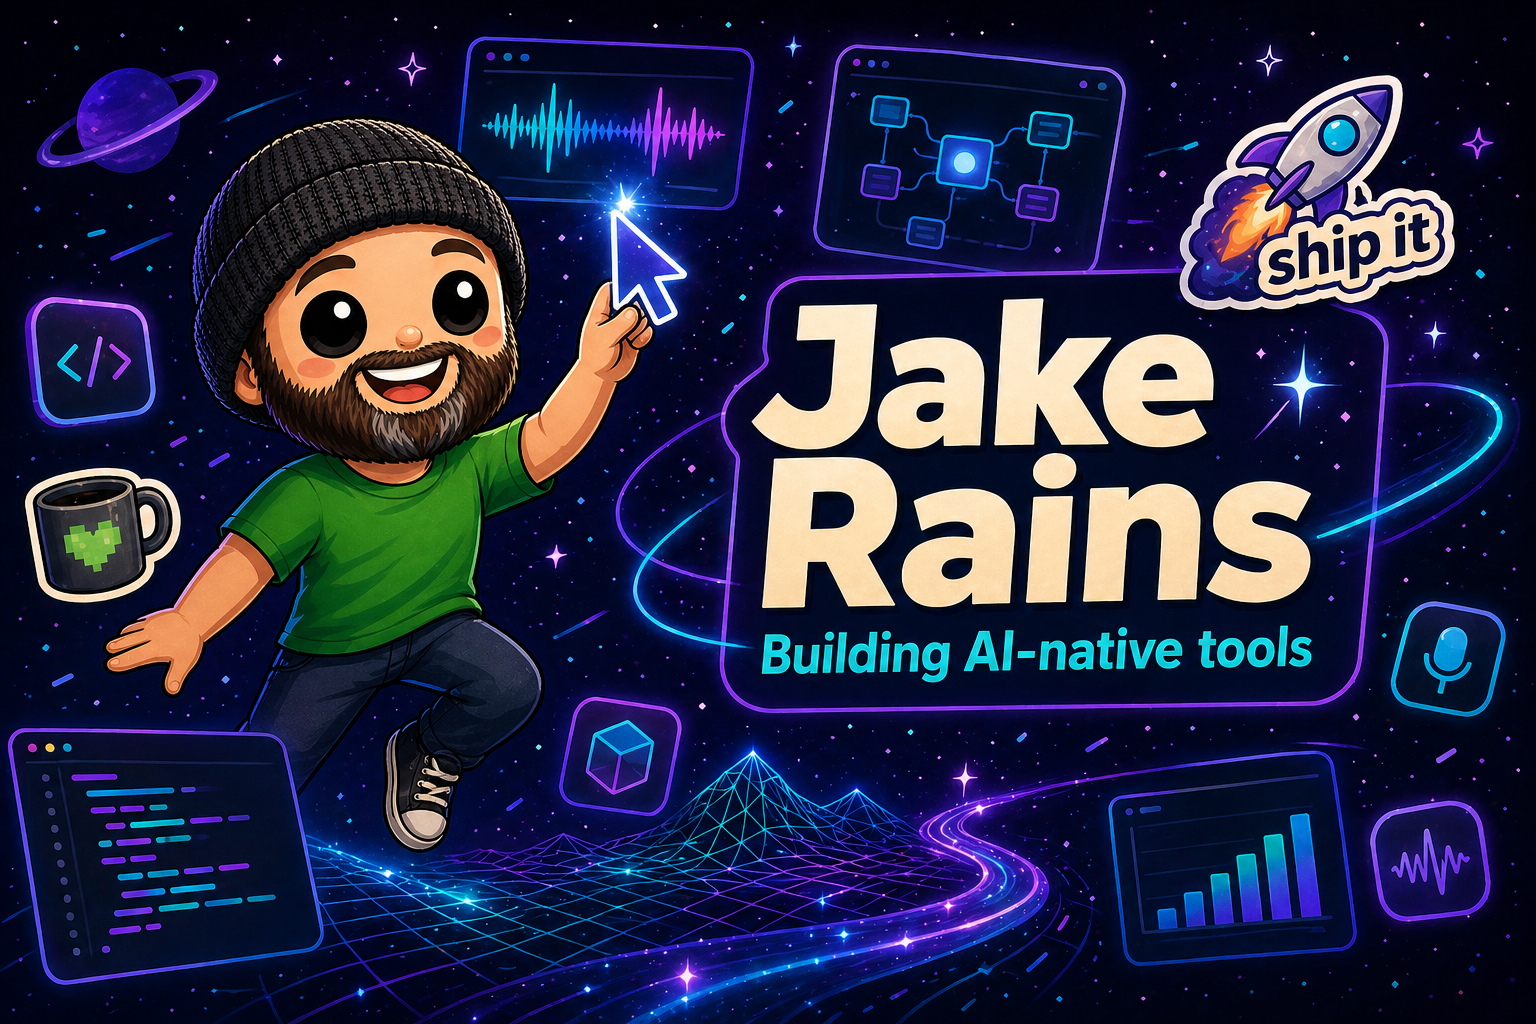
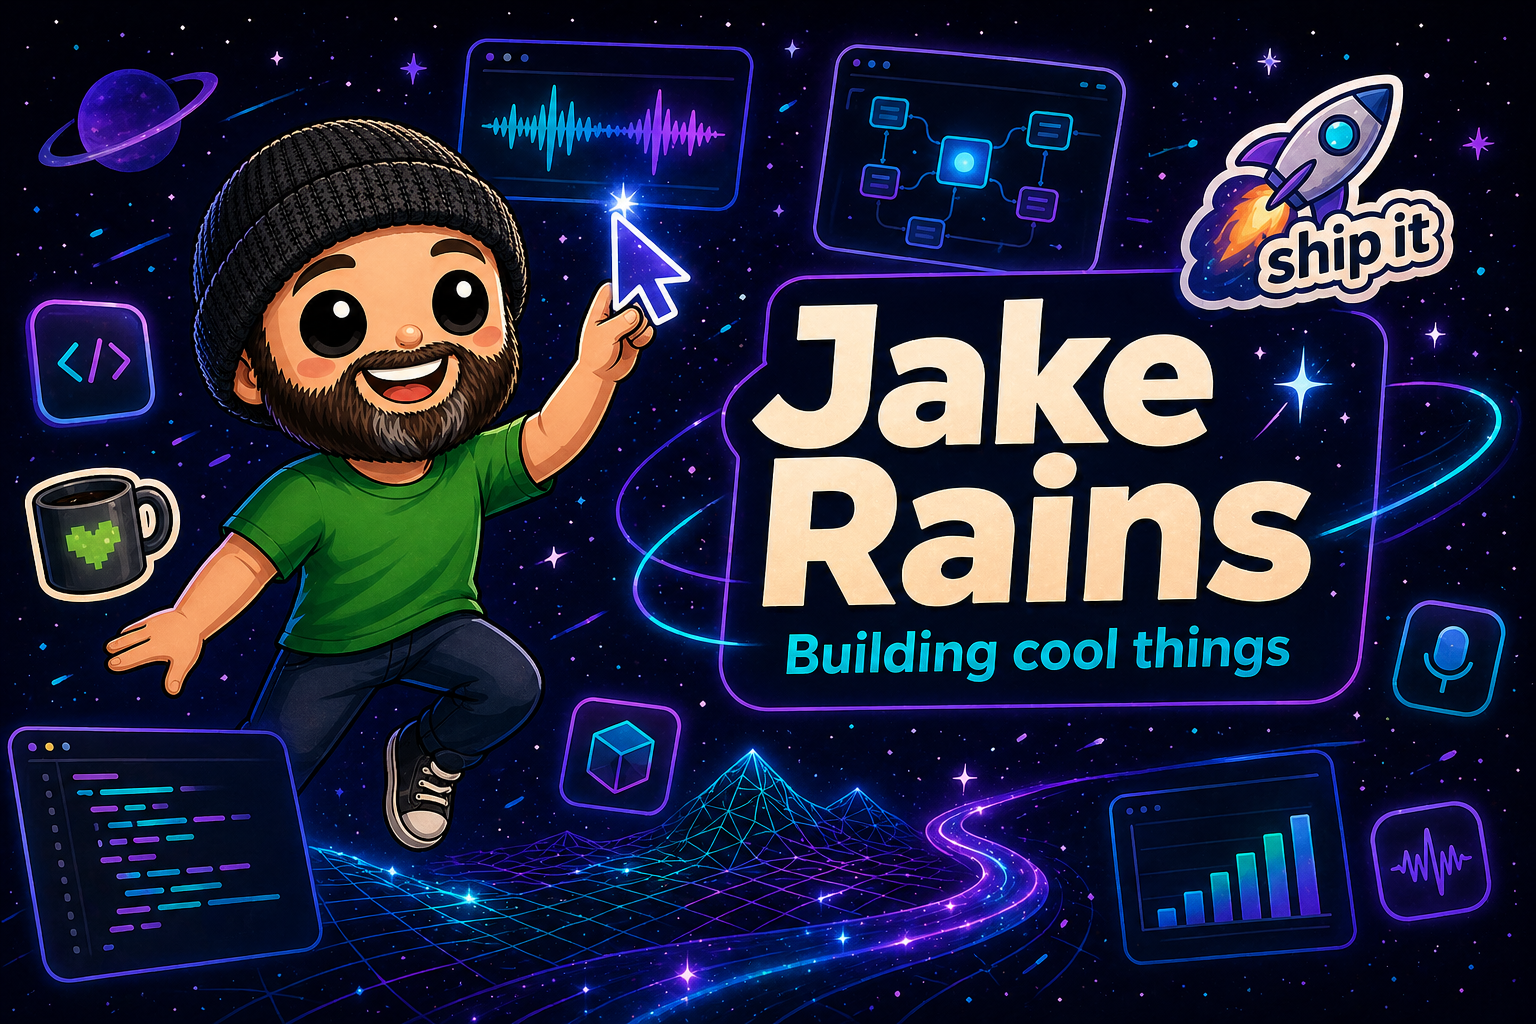
Update profile hero tagline

diff --git a/README.md b/README.md
@@ -1,8 +1,8 @@
-<img src="https://raw.githubusercontent.com/jakerains/jakerains/main/assets/header-banner-jake.png" width="100%" alt="Jake Rains — Building AI-native tools"/>
+<img src="https://raw.githubusercontent.com/jakerains/jakerains/main/assets/header-banner-jake.png" width="100%" alt="Jake Rains — Building cool things"/>
 
 <div align="center">
 
-[![Typing SVG](https://readme-typing-svg.demolab.com?font=JetBrains+Mono&weight=600&size=20&pause=1000&color=A78BFA&center=true&vCenter=true&random=false&width=700&lines=Building+AI-native+tools+%F0%9F%9B%B8;storyfox.app+%E2%80%94+on-device+AI+storybooks+%F0%9F%A6%8A;webgpu.studio+%E2%80%94+14%2B+AI+models+in+your+browser+%E2%9A%A1;dialadecade.com+%E2%80%94+talk+to+history+%F0%9F%93%9E;vibe+coding+at+the+edge+of+possible+%F0%9F%8C%8C)](https://jakerains.com/projects)
+[![Typing SVG](https://readme-typing-svg.demolab.com?font=JetBrains+Mono&weight=600&size=20&pause=1000&color=A78BFA&center=true&vCenter=true&random=false&width=700&lines=Building+cool+things+%F0%9F%9A%80;storyfox.app+%E2%80%94+on-device+AI+storybooks+%F0%9F%A6%8A;webgpu.studio+%E2%80%94+14%2B+AI+models+in+your+browser+%E2%9A%A1;dialadecade.com+%E2%80%94+talk+to+history+%F0%9F%93%9E;vibe+coding+at+the+edge+of+possible+%F0%9F%8C%8C)](https://jakerains.com/projects)
 
 <br/>
 
